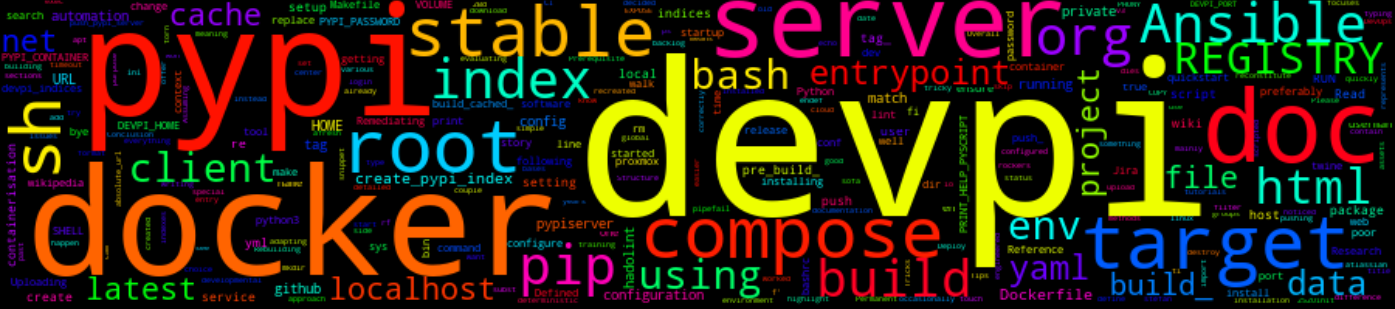
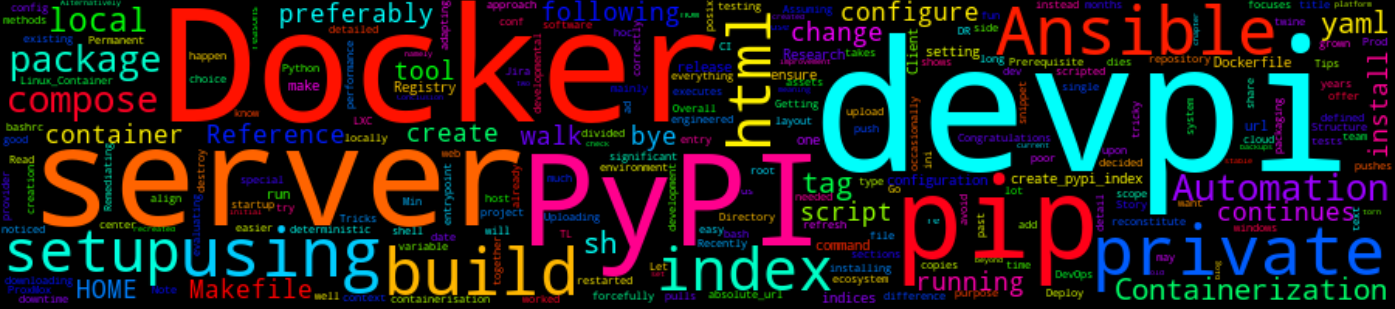
Updated grammar

diff --git a/_posts/2021-06-15-How-I-setup-a-private-PyPI-server-using-Docker-and-Ansible.md b/_posts/2021-06-15-How-I-setup-a-private-PyPI-server-using-Docker-and-Ansible.md
@@ -15,26 +15,26 @@ tags:
 ![post image]({{ "/assets/2021-06-15-How-I-setup-a-private-PyPI-server-using-Docker-and-Ansible.png" | absolute_url }})
 {: refdef}
 
-<<TIME TO READ>>
+7 Min Read
 
 -----------------------------------------------------------------------------------------
 
 # The Story
 
-Recently, I worked on a [Jira](https://www.atlassian.com/software/jira) ticket that has been in the backlog for a while. The story goes like this, we (my team @ work) have a [PyPI](https://en.wikipedia.org/wiki/Python_Package_Index) server (running on [devpi](https://github.com/devpi/devpi)) which hosts our packages. There were a couple of issues which we saw as potential risks, namely:
+Recently, I worked on a [Jira](https://www.atlassian.com/software/jira) ticket that has been in the backlog for a while. The story goes like this, we (my team @ work) have a [PyPI](https://en.wikipedia.org/wiki/Python_Package_Index) server (running on [devpi](https://github.com/devpi/devpi)) which hosts our packages. There were a couple of issues that we saw as potential risks, namely:
 
 - The setup was not under config management, meaning we didn't know how we would reconstitute it if it dies and like every software project there wasn't much detailed documentation on the how-to.
 - The Python packages did not have any backups, so if something was to happen it would be bye-bye to old packages i.e. It would be tricky to tests old system releases.
 - The server needed to be restarted occasionally to forcefully refresh the packages as our package index had grown over the past few years.
 
 My initial approach to this was:
-- Research and evaluating existing tools that Python ecosystem had to offer, [devpi](https://github.com/devpi/devpi) and [pypiserver](https://pypi.org/project/pypiserver/) being the most prominent ones.
+- Research and evaluating existing tools that the Python ecosystem had to offer, [devpi](https://github.com/devpi/devpi) and [pypi-server](https://pypi.org/project/pypiserver/) being the most prominent ones.
 - Run the PyPI server in a container preferably Docker (current setup was running in a [ProxMox LXC container](https://pve.proxmox.com/wiki/Linux_Container).)
 - Ensure that the deployment is deterministic and,
-- PyPi repository that can be torn down and recreated adhoc by a single command (preferably through [Ansible](https://docs.ansible.com/ansible/latest/index.html)) .
-- Overall ensure that there isn't any significant downtime between the change-over i.e. The client side shouldn't have to make any changes.
+- PyPi repository that can be torn down and recreated ad-hoc by a single command (preferably through [Ansible](https://docs.ansible.com/ansible/latest/index.html)) .
+- Overall ensure that there isn't any significant downtime between the change-over i.e. The client-side shouldn't have to make any changes.
 
-In this post, I will try to detail how I how i setup a private local PyPI server using [Docker](https://docs.docker.com/get-docker) And [Ansible](https://docs.ansible.com/ansible/latest/index.html).
+In this post, I will try to detail how I set up a private local PyPI server using [Docker](https://docs.docker.com/get-docker) And [Ansible](https://docs.ansible.com/ansible/latest/index.html).
 
 # TL;DR
 
@@ -42,23 +42,23 @@ Deploy/destroy devpi server running in Docker container using a single command.
 
 # The How
 
-After my initial research between [devpi](https://github.com/devpi/devpi) and [pypiserver](https://pypi.org/project/pypiserver/). Devpi won for various and obvious reasons!
+After my initial research between [devpi](https://github.com/devpi/devpi) and [pypi-server](https://pypi.org/project/pypiserver/). Devpi won for various and obvious reasons!
 
-I could have just [bash scripted](https://www.linux.com/training-tutorials/writing-simple-bash-script/) everything quickly before putting it all together but then were is the fun in that? Also this has to run in Prod. Hence, why I decided on a over-engineered approach which would be a good learning platform. 
+I could have just [bash scripted](https://www.linux.com/training-tutorials/writing-simple-bash-script/) everything quickly before putting it all together but then where is the fun in that? Also, this has to run in Prod. Hence, why I decided on an over-engineered approach which would be a good learning platform. 
 
 # The Walk-through
 
-The setup is divided into two sections, [Containerisation](#containerisation) and [Automation](#automation).
+The setup is divided into two sections, [Containerization](#containerization) and [Automation](#automation).
 
-This post walk-through mainly focuses on the containerisation. Go [here]() for the automation.
+This post-walk-through mainly focuses on containerisation. Go [here]({{ "/blog/2021/06/15/How-I-setup-a-private-PyPI-server-using-Docker-and-Ansible-Continues.html" | absolute_url }}) for the automation.
 
 ## Prerequisite
 
-If you already have [Docker](https://docs.docker.com/get-docker/) and [Docker-Compose](https://docs.docker.com/compose/) installed and configured you can skip this step else you can search for your own installation methods.
+If you already have [Docker](https://docs.docker.com/get-docker/) and [Docker-Compose](https://docs.docker.com/compose/) installed and configured you can skip this step else you can search for your installation methods.
 
 ```bash
 sudo apt install docker.io
-# The Docker service needs to be setup to run at startup.
+# The Docker service needs to be set up to run at startup.
 sudo systemctl start docker
 sudo systemctl enable docker
 python3 -m pip install docker-compose
@@ -83,16 +83,17 @@ python3 -m pip install docker-compose
 
 #### Makefile
 
-Below is a snippet from our Makefile, which make it a lot easier for our [CI](https://en.wikipedia.org/wiki/Continuous_integration) system to lint, build, tag and push images to our local [Docker Registry](https://docs.docker.com/registry/). This means that instead of typing the whole docker command to build/tag or push, we can run something like:
+Below is a snippet from our Makefile, which makes it a lot easier for our [CI](https://en.wikipedia.org/wiki/Continuous_integration) system to lint, build, tag and pushes images to our local [Docker Registry](https://docs.docker.com/registry/). This means that instead of typing the whole docker command to build/tag or push, we can run something like:
 
 ```bash
-make push_pypi_server
 # Which will lint the Dockerfile, build, tag and push the image to our local registry
+make push_pypi_server
 ```
 
-You can also checkout my over-engineered Makefile [here](https://github.com/mmphego/Generic_Makefile).
+You can also check out my over-engineered Makefile [here](https://github.com/mmphego/Generic_Makefile).
 
 ```bash
+cat >> Makefile << EOF 
 SHELL := /bin/bash -eo pipefail
 # Defined images here
 .PHONY: $(IMAGES)
@@ -150,27 +151,29 @@ push_%: IMAGE = $(subst push_,,$@)
 push_%: tag_%  ## Push tagged container to cam registry.
     docker push $(REGISTRY)/$(IMAGE):latest
     rm -rf ".build_$(IMAGE)"
+EOF
 ```
 
 #### Devpi configuration
 
 This is a YAML [devpi configuration](https://devpi.net/docs/devpi/devpi/stable/+doc/quickstart-server.html#using-a-configuration-file-for-devpi-server).
 
-```yaml
-# config.yml
+```bash
+cat >> config.yml << EOF 
 ---
 devpi-server:
   host: 0.0.0.0
   port: 3141
   restrict-modify: root
+EOF
 ```
 
 #### Compose file(s)
 
-This is a developmental docker-compose which builds the image locally instead of using the image from the registry.
+This is a developmental docker-compose that builds the image locally instead of using the image from the registry.
 
-```yaml
-# docker-compose-dev.yaml
+```bash
+cat >> docker-compose-dev.yaml << EOF 
 ---
 version: '3'
 services:
@@ -184,9 +187,10 @@ services:
        - "${DEVPI_HOME:-./devpi}:/root/.devpi"
     tty: true
     stdin_open: true
+EOF
 ```
 
-The only difference between the `docker-compose-dev.yaml` and `docker-compose-stable.yaml` is one has a [build context and other has a defined image it pulls from](https://docs.docker.com/compose/compose-file/compose-file-v3/#service-configuration-reference)
+The only difference between the `docker-compose-dev.yaml` and `docker-compose-stable.yaml` is one has a [build context and the other has a defined image it pulls from](https://docs.docker.com/compose/compose-file/compose-file-v3/#service-configuration-reference)
 
 Run the command below to build the image and run the container on localhost
 
@@ -205,10 +209,10 @@ env DEVPI_HOME="${HOME}/.devpi" docker-compose -f docker-compose-dev.yaml up --b
 
 #### Dockerfile and scripts
 
-I created the following Dockerfile, which executes a script `entrypoint.sh` upon container startup and also copies a `create_pypi_index.sh` script which should be ran once when the devpi-server is up. This script [creates and configures the indices](https://devpi.net/docs/devpi/devpi/stable/+d/userman/devpi_indices.html).
+I created the following Dockerfile, which executes a script `entrypoint.sh` upon container startup and also copies a `create_pypi_index.sh` script which should be run once when the devpi-server is up. This script [creates and configures the indices](https://devpi.net/docs/devpi/devpi/stable/+d/userman/devpi_indices.html).
 
-```bash
-# Dockerfile
+```bash 
+cat >> Dockerfile << EOF 
 FROM python:3.7
 
 RUN pip install --no-cache-dir \
@@ -229,6 +233,7 @@ ENTRYPOINT ["bash", "/data/entrypoint.sh"]
 
 COPY config.yml /data/config.yml
 CMD ["devpi-server", "-c", "/data/config.yml"]
+EOF
 ```
 
 **`entrypoint.sh`**
@@ -236,17 +241,17 @@ CMD ["devpi-server", "-c", "/data/config.yml"]
 According to the [docs](https://devpi.net/docs/devpi/devpi/stable/+d/quickstart-server.html?highlight=devpi%2520init#installing-devpi-server-and-client):
 > When started afresh, `devpi-server` will not contain any users or indexes except for the root user and the `root/pypi` index (see using root/pypi index) which represents and caches https://pypi.org packages.
 
-Note: The `root/pypi` index is a read only cache of https://pypi.org, hence why a new index creation is necessary if you want to push packages as well.
+Note: The `root/pypi` index is a read-only cache of https://pypi.org, hence why a new index creation is necessary if you want to push packages as well.
 
 ```bash
-# entrypoint.sh
+cat >> entrypoint.sh << EOF 
 #!/usr/bin/env bash
 if ! [ -f /root/.devpi/server ]; then
     devpi-init
 fi
 
 exec "$@"
-
+EOF
 ```
 
 **`create_pypi_index.sh`**
@@ -254,31 +259,34 @@ exec "$@"
 Read more about indices creation [here](https://devpi.net/docs/devpi/devpi/stable/+d/userman/devpi_indices.html#devpi-um-indices-chapter)
 
 ```bash
-# create_pypi_index.sh
+cat >> create_pypi_index.sh << EOF 
 #!/usr/bin/env bash
 
-# Creates pypi user and an index for uploading packages to.
+# Creates PyPI user and an index for uploading packages to.
 
 devpi use http://localhost:3141
 devpi login root --password=
 devpi user -c pypi email= password=${PYPI_PASSWORD:-}
 devpi user -l
 devpi index -c pypi/stable bases=root/pypi volatile=True mirror_whitelist=*
+EOF
 ```
 
 Once the image has been build and a container is running, we can create an index by running the following:
 
+{% raw %}
 ```bash
 PYPI_CONTAINER=$(docker ps --filter "name=pypi" --filter "status=running" --format "{{.Names}}")
 docker exec -ti ${PYPI_CONTAINER} /bin/bash -c "/data/create_pypi_index.sh"
 ```
+{% endraw %}
 
 ### Client: Permanent index configuration for pip
 
 To avoid having to re-type index URLs with `pip` or `easy-install` , you can configure `pip` by setting the `index-url` entry in your `$HOME/.pip/pip.conf` (posix) or `$HOME/pip/pip.ini` (windows). Let’s do it for the `root/pypi` index:
 
 ```bash
-mkdir -p ~/.pip && cat << ~/.pip/pip.conf > EOF
+mkdir -p ~/.pip && cat >> ~/.pip/pip.conf << EOF 
 [global]
 no-cache-dir = false
 timeout = 60
@@ -291,7 +299,7 @@ EOF
 Alternatively, you can add a special environment variable to your shell settings (e.g. `.bashrc`):
 
 ```bash
-cat << ~/.bashrc >> EOF
+cat >> ~/.bashrc << EOF 
 export PIP_INDEX_URL=http://localhost:3141/root/pypi/stable/
 EOF
 ```
@@ -299,20 +307,21 @@ EOF
 ## Automation
 
 I didn't want the post to be too long.
-Post continues [here]()
+
+Post continues [here]({{ "/blog/2021/06/15/How-I-setup-a-private-PyPI-server-using-Docker-and-Ansible-Continues.html" | absolute_url }})
 
 # Conclusion
 
 Congratulations!!!
-Assuming that everything was setup correctly. You now have a container running a local/private PyPI server and you can download or upload (using [twine](https://pypi.org/project/twine/) or [devpi-client](https://pypi.org/project/devpi-client/)) packages. 
+Assuming that everything was set up correctly. You now have a container running a local/private PyPI server and you can download or upload (using [twine](https://pypi.org/project/twine/) or [devpi-client](https://pypi.org/project/devpi-client/)) packages. 
 
-We've been using this private package index for a few months, and also noticed significant improvement on downloading and installing packages. 
+We've been using this private package index for a few months, and also noticed a significant improvement in downloading and installing packages. 
 The image shows the time it takes to download and install packages before and after.
 ![image](https://user-images.githubusercontent.com/7910856/122068583-cffb4f80-cdf4-11eb-90c8-6f70cbbaa831.png)
 
 Note: 
 - Uploading packages to the local PyPI server is beyond the scope of this post.
-- The purpose of this post was mainly to share the approach that worked well for us. You may use it to host your own private package repository and index, adapting it the cloud provider and web server of your choice.
+- The purpose of this post was mainly to share the approach that worked well for us. You may use it to host your private package repository and index, adapting it to the cloud provider and web server of your choice.
 
 # Reference
 
